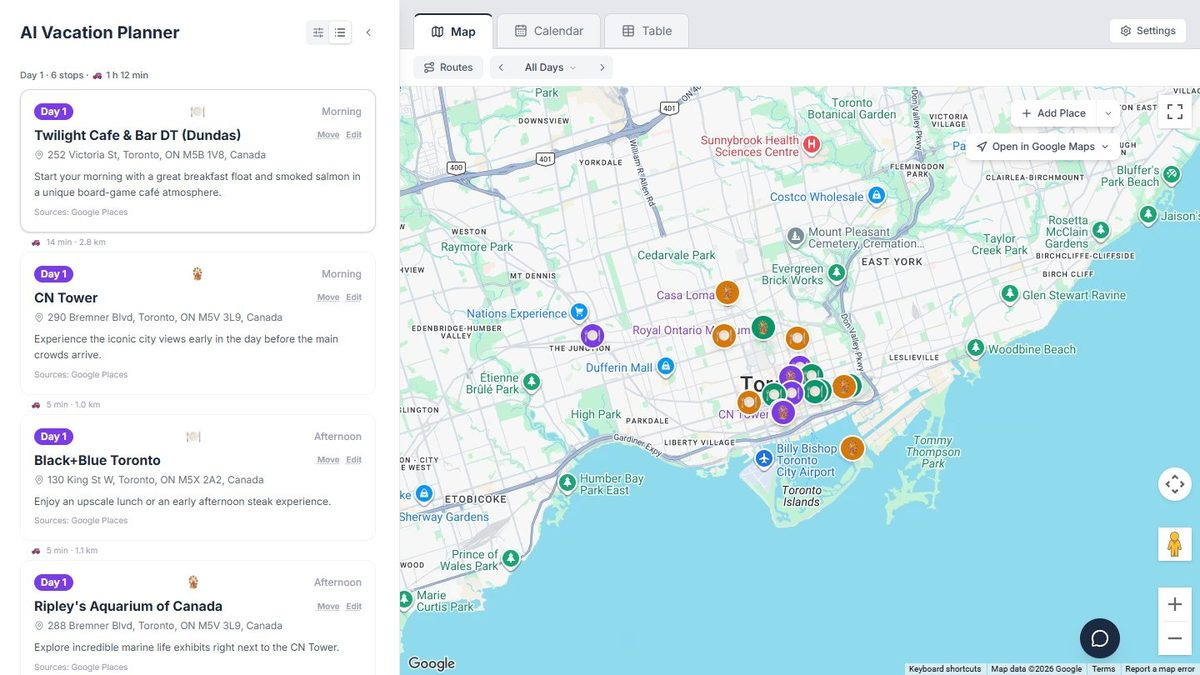
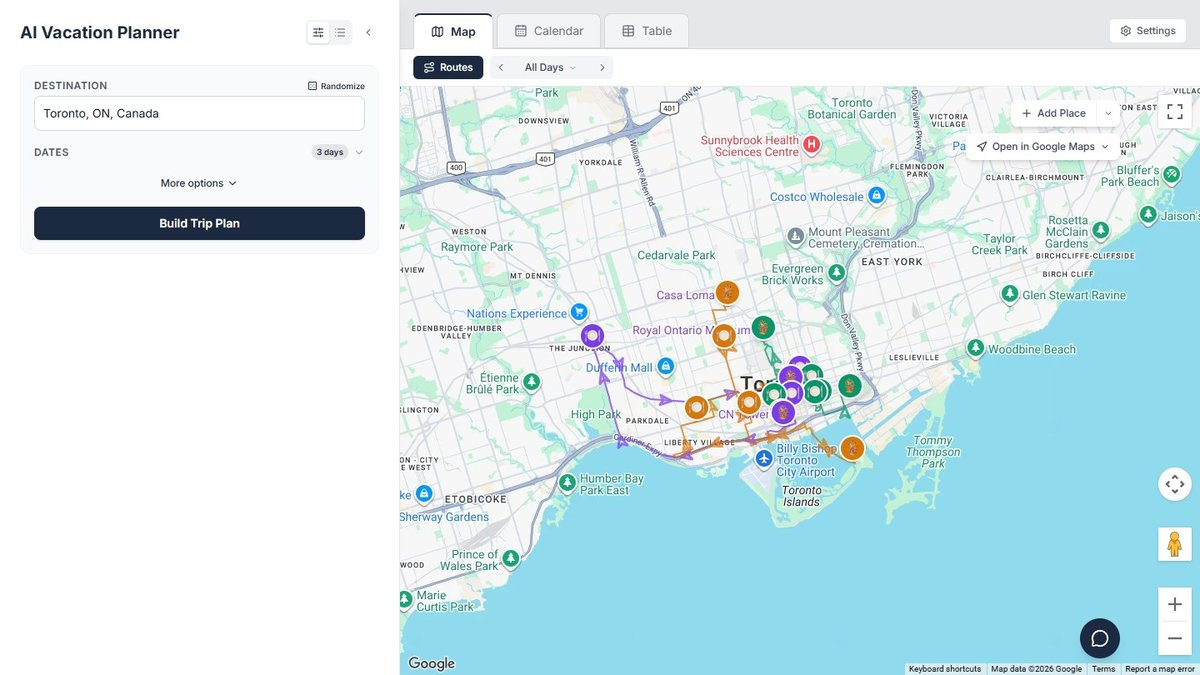
Level the swimming fish, make every shell and creature clickable, and update project screenshots.
Fish swim straight across: the random tilt is gone, slanted drawings are turned level, and the three rays drawn on a diagonal no longer swim. Every shell now blows bubbles when clicked, each bubble rises on its own so clicking again never restarts the ones already rising, and drifters and coral slip out of sight and come back. Going from Skills straight to Projects or Experience, the skill chips arrive inside their cards instead of trailing in afterwards. Baby Names, the barcode scanner and the trip planner have new screenshots.

diff --git a/my-app/src/app/components/OceanDecorations.tsx b/my-app/src/app/components/OceanDecorations.tsx
@@ -109,8 +109,8 @@ function BubbleBurst({ originSide, originOffset }: { originSide: "left" | "right
             [originSide]: `calc(${originOffset}% - 8px)`,
             width: b.size,
             height: b.size,
-            animation: `chestBubbleRise ${b.duration}s ease-out ${b.delay}s forwards`,
-            "@keyframes chestBubbleRise": {
+            animation: `shellBubble_${b.id} ${b.duration}s ease-out ${b.delay}s forwards`,
+            [`@keyframes shellBubble_${b.id}`]: {
               "0%": { transform: "translate(0,0)", opacity: 0.9 },
               "100%": { transform: `translate(${b.dx}px, -120px)`, opacity: 0 },
             },
@@ -138,7 +138,6 @@ const SWIMMERS: { n: number; face: Face; size: number; depth: Depth }[] = [
   { n: 4, face: "left", size: 168, depth: "mid" },
   { n: 6, face: "left", size: 44, depth: "surface" },
   { n: 7, face: "left", size: 46, depth: "surface" },
-  { n: 10, face: "left", size: 172, depth: "mid" },
   { n: 11, face: "right", size: 50, depth: "surface" },
   { n: 12, face: "left", size: 144, depth: "mid" },
   { n: 14, face: "right", size: 70, depth: "mid" },
@@ -162,7 +161,6 @@ const SWIMMERS: { n: number; face: Face; size: number; depth: Depth }[] = [
   { n: 41, face: "left", size: 50, depth: "surface" },
   { n: 43, face: "left", size: 54, depth: "surface" },
   { n: 44, face: "right", size: 50, depth: "surface" },
-  { n: 45, face: "left", size: 168, depth: "mid" },
   { n: 48, face: "left", size: 150, depth: "mid" },
   { n: 50, face: "left", size: 58, depth: "deep" },
   { n: 51, face: "left", size: 48, depth: "surface" },
@@ -174,7 +172,6 @@ const SWIMMERS: { n: number; face: Face; size: number; depth: Depth }[] = [
   { n: 61, face: "left", size: 184, depth: "mid" },
   { n: 62, face: "left", size: 160, depth: "mid" },
   { n: 63, face: "left", size: 46, depth: "surface" },
-  { n: 64, face: "left", size: 172, depth: "mid" },
   { n: 66, face: "left", size: 140, depth: "deep" },
   { n: 67, face: "left", size: 36, depth: "surface" },
   { n: 68, face: "left", size: 58, depth: "deep" },
@@ -184,6 +181,11 @@ const SWIMMERS: { n: number; face: Face; size: number; depth: Depth }[] = [
   { n: 73, face: "left", size: 48, depth: "deep" },
   { n: 75, face: "left", size: 50, depth: "surface" },
 ];
+// Some drawings have the body on a slant; these turn them level (degrees, clockwise), measured from each
+// picture's outline, so every fish swims flat along the page.
+const LEVEL: Record<number, number> = {
+  4: 24.5, 14: -8.7, 17: -4, 24: 28.5, 27: -5.3, 28: 12, 29: 4.2, 34: 24.9, 48: 10, 53: -3.1, 57: 3.6, 61: 20.1, 62: 7.4, 66: 16.9, 67: 5, 71: 15.2,
+};
 // Animals without fins to swim with (jellyfish, octopus, cuttlefish, seahorses, the sea dragon) rest
 // near the edges and bob in place instead of crossing the page.
 const DRIFTERS: { n: number; size: number }[] = [
@@ -194,14 +196,13 @@ const CRAWLERS: { n: number; size: number }[] = [
   { n: 13, size: 52 }, { n: 15, size: 54 }, { n: 18, size: 56 }, { n: 32, size: 50 }, { n: 38, size: 48 },
   { n: 39, size: 44 }, { n: 46, size: 52 }, { n: 60, size: 52 }, { n: 65, size: 50 }, { n: 74, size: 48 },
 ];
-// Shells and coral decorate the edges.
-const SEABED: { n: number; size: number }[] = [
-  { n: 5, size: 44 }, { n: 9, size: 52 }, { n: 16, size: 40 }, { n: 23, size: 54 }, { n: 36, size: 44 }, { n: 42, size: 48 }, { n: 72, size: 54 },
-];
+// Shells (they blow bubbles when clicked) and coral decorate the edges.
+const SHELLS: { n: number; size: number }[] = [{ n: 5, size: 44 }, { n: 16, size: 40 }, { n: 36, size: 44 }, { n: 42, size: 48 }];
+const CORAL: { n: number; size: number }[] = [{ n: 9, size: 52 }, { n: 23, size: 54 }, { n: 72, size: 54 }];
 const PEARL_SHELL = 58;
 const seaSrc = (n: number) => `/sea/${String(n).padStart(2, "0")}.webp`;
 
-const SWIMMER_COUNT = 24, DRIFTER_COUNT = 5, CRAWLER_COUNT = 6, SEABED_COUNT = 6;
+const SWIMMER_COUNT = 24, DRIFTER_COUNT = 5, CRAWLER_COUNT = 6, SHELL_COUNT = 3, CORAL_COUNT = 3;
 
 function pickSome<T>(list: T[], count: number): T[] {
   const copy = [...list];
@@ -213,7 +214,7 @@ function pickSome<T>(list: T[], count: number): T[] {
 }
 
 type Swimmer = { id: string; n: number; face: Face; size: number; depth: Depth; top: number; tilt: number; duration: number; delay: number; reverse: boolean; bob: number; bobDuration: number };
-type StillKind = "drifter" | "crawler" | "seabed" | "pearl";
+type StillKind = "drifter" | "crawler" | "shell" | "coral" | "pearl";
 type Still = { id: string; kind: StillKind; n: number; size: number; tilt: number; duration: number; delay: number };
 type Placed = Still & { x: number; y: number; side: "left" | "right" };
 
@@ -224,8 +225,8 @@ function randomSea() {
     ...s,
     id: `s${i}`,
     top: DEPTH_BANDS[s.depth][0] + Math.random() * (DEPTH_BANDS[s.depth][1] - DEPTH_BANDS[s.depth][0]),
-    // Mostly level, with a slight tilt of up to 5 degrees either way.
-    tilt: (Math.random() - 0.5) * 10,
+    // Finned animals swim level, straight across the page.
+    tilt: 0,
     duration: 38 + Math.random() * 30 + s.size * 0.15,
     delay: -Math.random() * 60,
     reverse: Math.random() < 0.5,
@@ -246,7 +247,8 @@ function randomSea() {
     still: [
       ...still("drifter", DRIFTERS, DRIFTER_COUNT),
       ...still("crawler", CRAWLERS, CRAWLER_COUNT),
-      ...still("seabed", SEABED, SEABED_COUNT),
+      ...still("shell", SHELLS, SHELL_COUNT),
+      ...still("coral", CORAL, CORAL_COUNT),
       { id: "pearl", kind: "pearl" as const, n: PEARL_SHELL, size: 52, tilt: 0, duration: 5, delay: 0 },
     ],
   };
@@ -291,9 +293,9 @@ function placeStill(items: Still[], layer: HTMLElement): Placed[] {
   return placed;
 }
 
-function SeaImage({ n, size }: { n: number; size: number }) {
+function SeaImage({ n, size, level = 0 }: { n: number; size: number; level?: number }) {
   // eslint-disable-next-line @next/next/no-img-element -- decorative, randomly chosen background element; not worth next/image's overhead here
-  return <img src={seaSrc(n)} alt="" width={size} height={size} draggable={false} style={{ width: "100%", height: "100%", objectFit: "contain", display: "block" }} />;
+  return <img src={seaSrc(n)} alt="" width={size} height={size} draggable={false} style={{ width: "100%", height: "100%", objectFit: "contain", display: "block", transform: level ? `rotate(${level}deg)` : undefined }} />;
 }
 
 // A crawler you can click: it freezes for a beat (startled), then scurries off toward its nearer edge and
@@ -372,19 +374,31 @@ function Crawler({ c }: { c: Placed }) {
   );
 }
 
-// Jellyfish, seahorses, shells and coral hover gently in place; drifters move more than things on the seabed.
+// Jellyfish, seahorses, the octopus and coral hover gently in place (drifters more than coral), and slip
+// out of sight when clicked, coming back a few seconds later.
+const GONE_MS = 3000;
 function Hovering({ d }: { d: Placed }) {
   const name = `hover_${d.id}`;
   const lift = d.kind === "drifter" ? 16 : 5;
+  const [gone, setGone] = useState(false);
+  useEffect(() => {
+    if (!gone) return;
+    const t = setTimeout(() => setGone(false), GONE_MS);
+    return () => clearTimeout(t);
+  }, [gone]);
   return (
     <Box
+      onClick={() => setGone(true)}
+      role="button"
+      aria-label="A sea creature, click it"
       sx={{
         position: "absolute",
         left: d.x,
         top: d.y,
         width: d.size,
         height: d.size,
-        pointerEvents: "none",
+        cursor: "pointer",
+        pointerEvents: gone ? "none" : "auto",
         zIndex: 1,
         filter: "drop-shadow(0 4px 10px rgba(0,0,0,0.35))",
         animation: `${name} ${d.duration.toFixed(1)}s ease-in-out ${d.delay.toFixed(1)}s infinite`,
@@ -395,19 +409,29 @@ function Hovering({ d }: { d: Placed }) {
         "@media (prefers-reduced-motion: reduce)": { animation: "none" },
       }}
     >
-      <SeaImage n={d.n} size={d.size} />
+      <Box sx={{ width: "100%", height: "100%", transition: "opacity 0.45s ease, transform 0.45s ease", opacity: gone ? 0 : 1, transform: gone ? "scale(0.4) translateY(20px)" : "none" }}>
+        <SeaImage n={d.n} size={d.size} />
+      </Box>
     </Box>
   );
 }
 
-// The pearl shell near the bottom of the section: click it and it lets out a burst of bubbles.
-function PearlShell({ p }: { p: Placed }) {
+// A shell: click it and it lets out a burst of bubbles. Each burst rises on its own and is removed once it
+// has finished, so clicking again never restarts bubbles that are already on their way up.
+const BURST_MS = 5000;
+let burstKey = 0;
+function Shell({ p }: { p: Placed }) {
   const [bursts, setBursts] = useState<number[]>([]);
+  const blow = () => {
+    const key = burstKey++;
+    setBursts((list) => [...list, key]);
+    setTimeout(() => setBursts((list) => list.filter((k) => k !== key)), BURST_MS);
+  };
   return (
     <Box
-      onClick={() => setBursts((list) => [...list.slice(-2), Date.now()])}
+      onClick={blow}
       role="button"
-      aria-label="A pearl shell, click it"
+      aria-label="A shell, click it"
       sx={{
         position: "absolute",
         left: p.x,
@@ -502,7 +526,7 @@ function SwimmingCreature({ f }: { f: Swimmer }) {
           "@media (prefers-reduced-motion: reduce)": { animation: "none", transform: `${mirror ? "scaleX(-1) " : ""}rotate(${f.tilt.toFixed(1)}deg)` },
         }}
       >
-        <SeaImage n={f.n} size={f.size} />
+        <SeaImage n={f.n} size={f.size} level={LEVEL[f.n]} />
       </Box>
     </Box>
   );
@@ -581,7 +605,7 @@ export default function OceanDecorations() {
       {sea?.swimmers.map((f) => <SwimmingCreature key={f.id} f={f} />)}
       {placed.map((p) =>
         p.kind === "crawler" ? <Crawler key={p.id} c={p} />
-        : p.kind === "pearl" ? <PearlShell key={p.id} p={p} />
+        : p.kind === "pearl" || p.kind === "shell" ? <Shell key={p.id} p={p} />
         : <Hovering key={p.id} d={p} />
       )}
     </>

diff --git a/my-app/src/app/components/PageContent.tsx b/my-app/src/app/components/PageContent.tsx
@@ -260,7 +260,7 @@ function skillIcon(label: string) {
 // straight into the gallery overlay's skills cloud — Framer Motion animates
 // the move automatically since it's the same tracked element, just
 // re-parented. Outside of that filter it just renders in place as before.
-function SkillChips({ items, entryId }: { items: string[]; entryId: string }) {
+function SkillChips({ items, entryId, inGalleryCard = false }: { items: string[]; entryId: string; inGalleryCard?: boolean }) {
   const { filter, prevFilter } = useJourneyFilter();
   const { skillsTarget, registerSkills, isSkillOwner } = useGalleryPortal();
   const rowRef = useRef<HTMLDivElement>(null);
@@ -284,7 +284,11 @@ function SkillChips({ items, entryId }: { items: string[]; entryId: string }) {
             layoutId={chipId}
             style={flying ? { order: skillOrder(s) } : undefined}
             transition={
-              returning
+              // Going from Skills straight to Projects or Experience, a chip lands in its card together with the
+              // card rather than trailing in on its own afterwards.
+              returning && inGalleryCard
+                ? { duration: 0 }
+                : returning
                 ? { duration: 0.4, ease: [0.4, 0, 1, 1] }
                 : { duration: 1.8, ease: [0.22, 1, 0.36, 1], delay: launchDelay(entryId) + i * 0.12 }
             }
@@ -577,7 +581,7 @@ function TimelineEntry({
           </Box>
         </Box>
 
-        {skills.length > 0 && <SkillChips items={skills} entryId={entryId} />}
+        {skills.length > 0 && <SkillChips items={skills} entryId={entryId} inGalleryCard={cardFlies} />}
 
         {children}
 
@@ -1395,10 +1399,9 @@ export default function PageContent() {
               hideStartDate
               githubUrl="https://github.com/ddombrov/BabyNamesFrequencyProject"
               tryUrl="/baby-names"
-              shot={{ src: "/projects/babyNames.png", alt: "Baby Names Frequency Tracker screenshot", width: 1200, height: 515 }}
+              shot={{ src: "/projects/baby-names/graph.jpg", alt: "Baby Names app comparing how often two names were given over the years", width: 1280, height: 800 }}
               skills={["Python", "Pandas"]}
-              aside={<PhotoFrame src="/projects/babyNames.png" alt="Baby Names Frequency Tracker screenshot" width={520} height={293} />}
-            >
+                          >
               <Typography variant="body1" sx={{ color: "#EDEFF3", textShadow, mt: 2 }}>
                 Designed a Python program with a team of four to analyze name
                 trends using historical data, identifying popularity and
